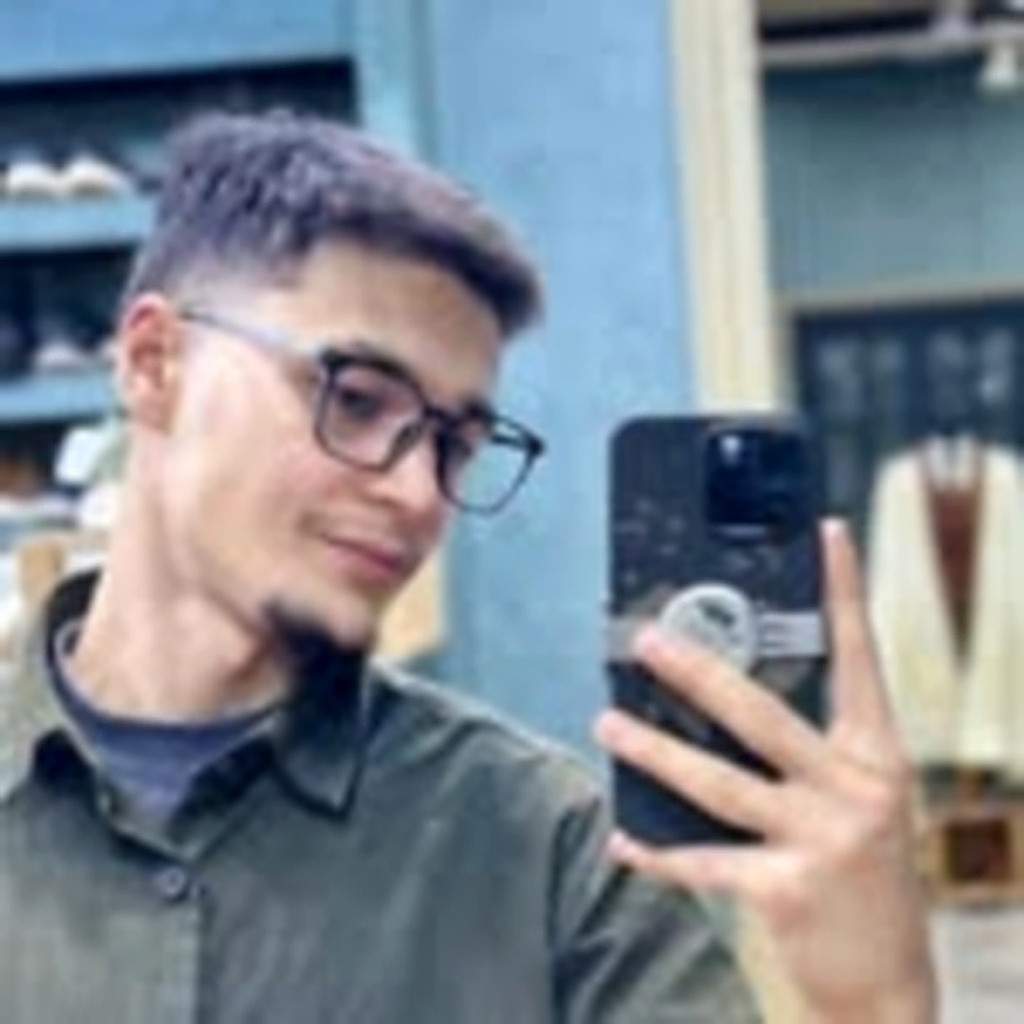
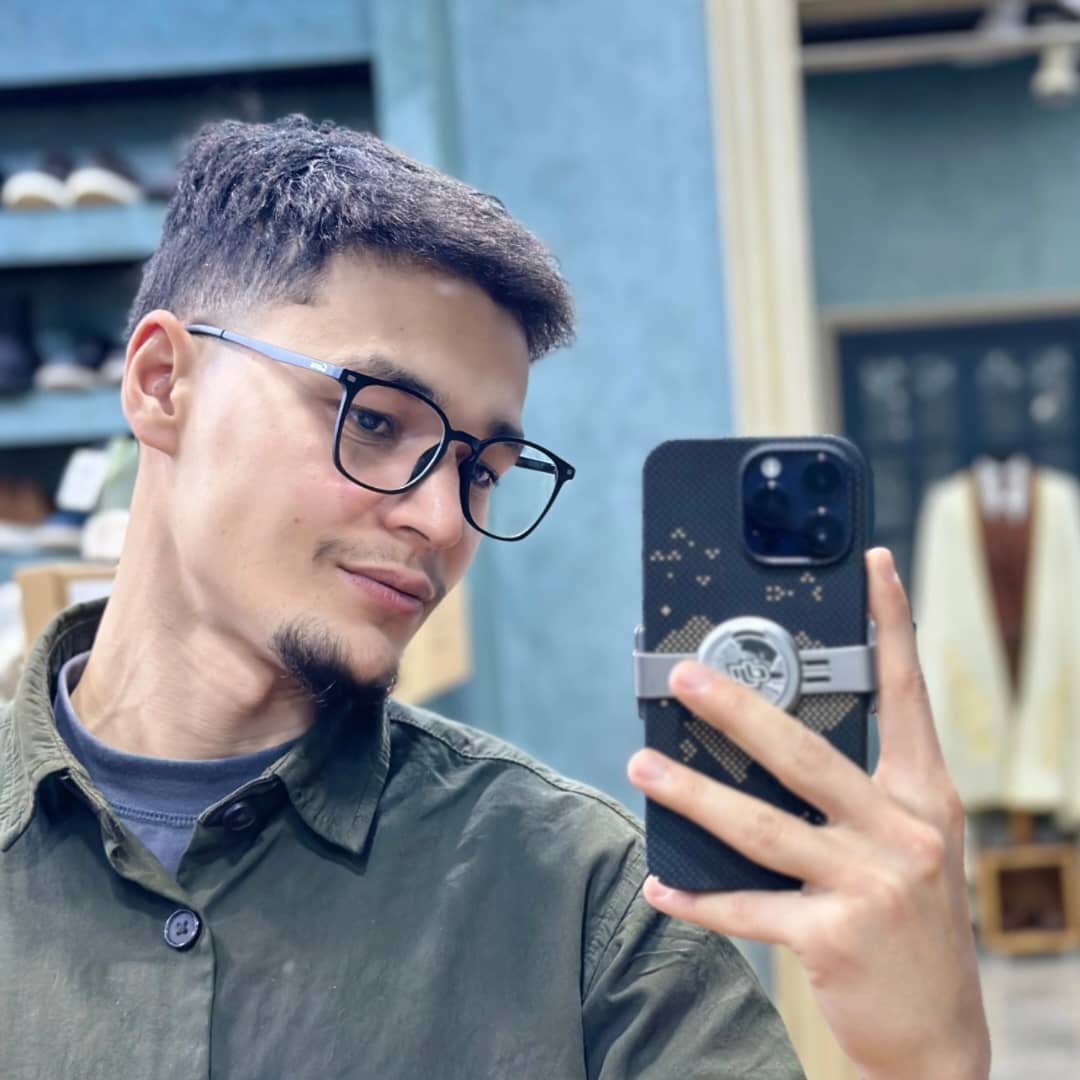
content

diff --git a/components/project-modal.tsx b/components/project-modal.tsx
@@ -30,10 +30,12 @@ export default function ProjectModal({
   const { locale } = useLocale();
   const [active, setActive] = useState(0);
   const [errored, setErrored] = useState<Record<number, boolean>>({});
+  const [ar, setAr] = useState<number | null>(null);
 
   useEffect(() => {
     setActive(0);
     setErrored({});
+    setAr(null);
   }, [project.id]);
 
   useEffect(() => {
@@ -56,6 +58,9 @@ export default function ProjectModal({
   const images = project.images ?? [];
   const hasImages = images.length > 0;
   const showPlate = !hasImages || errored[active];
+  // Adapt the viewer frame to each image's real orientation (clamped) so portrait
+  // phone screenshots and landscape shots both display in full — no cropping.
+  const frameRatio = ar ? Math.min(1.8, Math.max(0.66, ar)) : 1.6;
 
   const meta: { k: string; v: string }[] = [
     { k: t(locale, "common.year"), v: project.year },
@@ -101,14 +106,32 @@ export default function ProjectModal({
           {/* media */}
           <div className="min-w-0 border-b border-line p-5 md:border-b-0 md:border-e">
             <div className="film-edge h-2 opacity-50" aria-hidden />
-            <div className="group relative aspect-[16/10] w-full overflow-hidden border-y border-line bg-ink">
+            <div
+              className="group relative max-h-[72vh] w-full overflow-hidden border-y border-line bg-ink"
+              style={{ aspectRatio: showPlate ? "16 / 10" : String(frameRatio) }}
+            >
               {!showPlate && (
-                <img
-                  src={images[active]}
-                  alt={project.name}
-                  onError={() => setErrored((e) => ({ ...e, [active]: true }))}
-                  className="h-full w-full object-cover"
-                />
+                <>
+                  {/* blurred backdrop fills the frame for any aspect ratio */}
+                  <img
+                    src={images[active]}
+                    alt=""
+                    aria-hidden="true"
+                    className="pointer-events-none absolute inset-0 h-full w-full scale-110 object-cover opacity-25 blur-2xl"
+                  />
+                  <img
+                    key={images[active]}
+                    src={images[active]}
+                    alt={project.name}
+                    onLoad={(e) =>
+                      setAr(
+                        e.currentTarget.naturalWidth / e.currentTarget.naturalHeight
+                      )
+                    }
+                    onError={() => setErrored((e) => ({ ...e, [active]: true }))}
+                    className="relative h-full w-full object-contain"
+                  />
+                </>
               )}
               {showPlate && <AperturePlate project={project} index={index - 1} />}
             </div>
